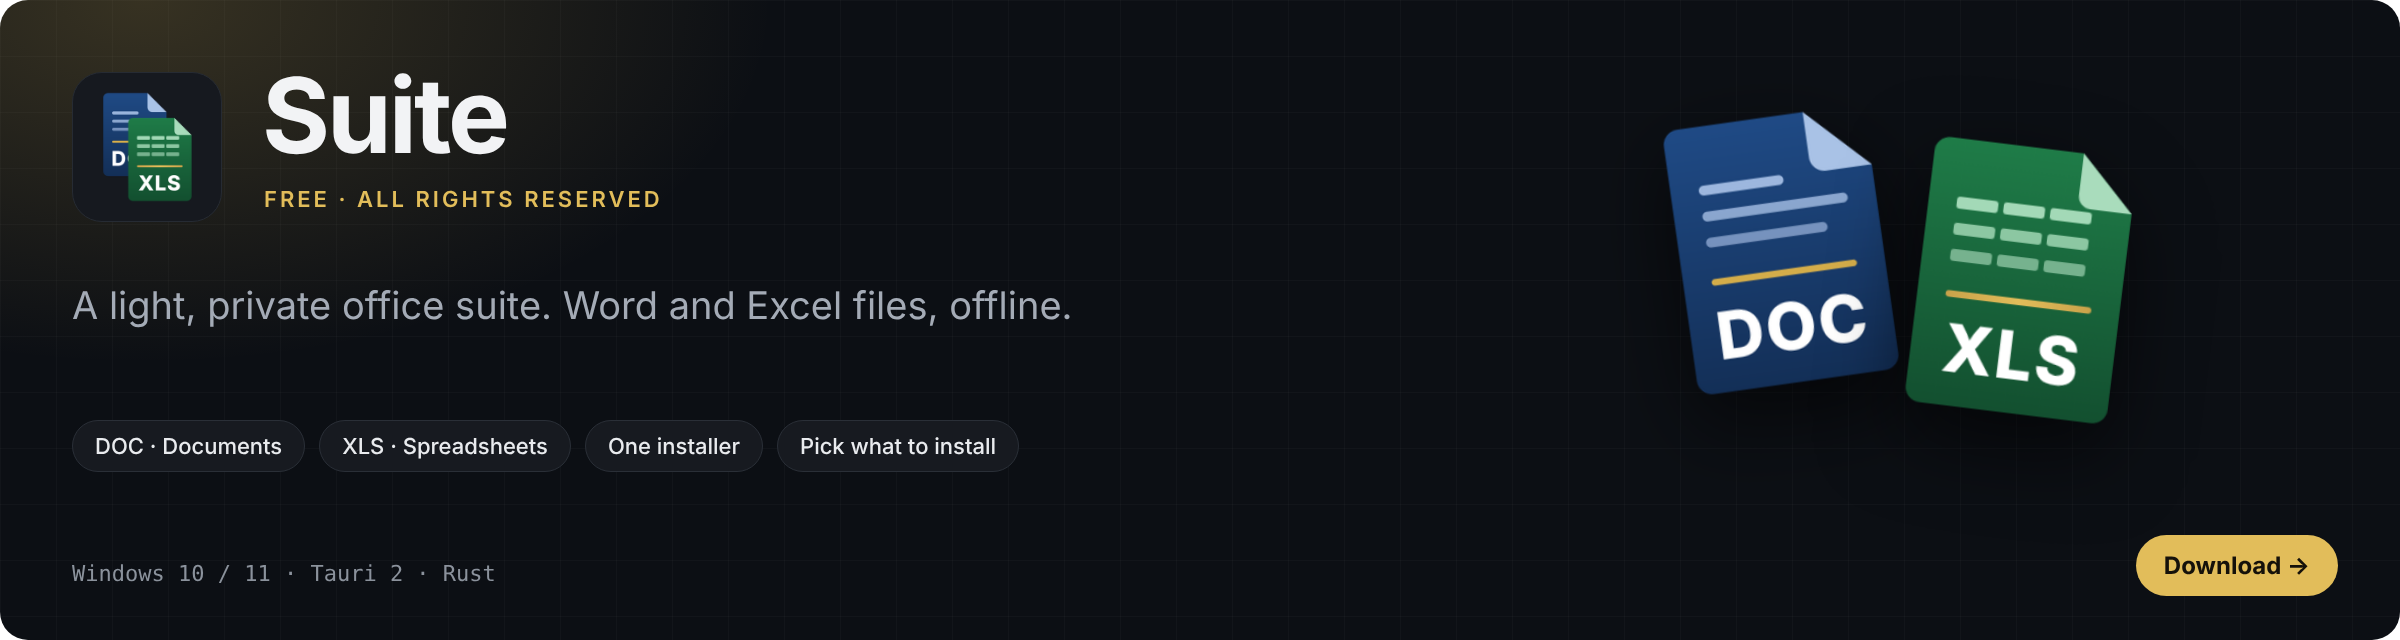
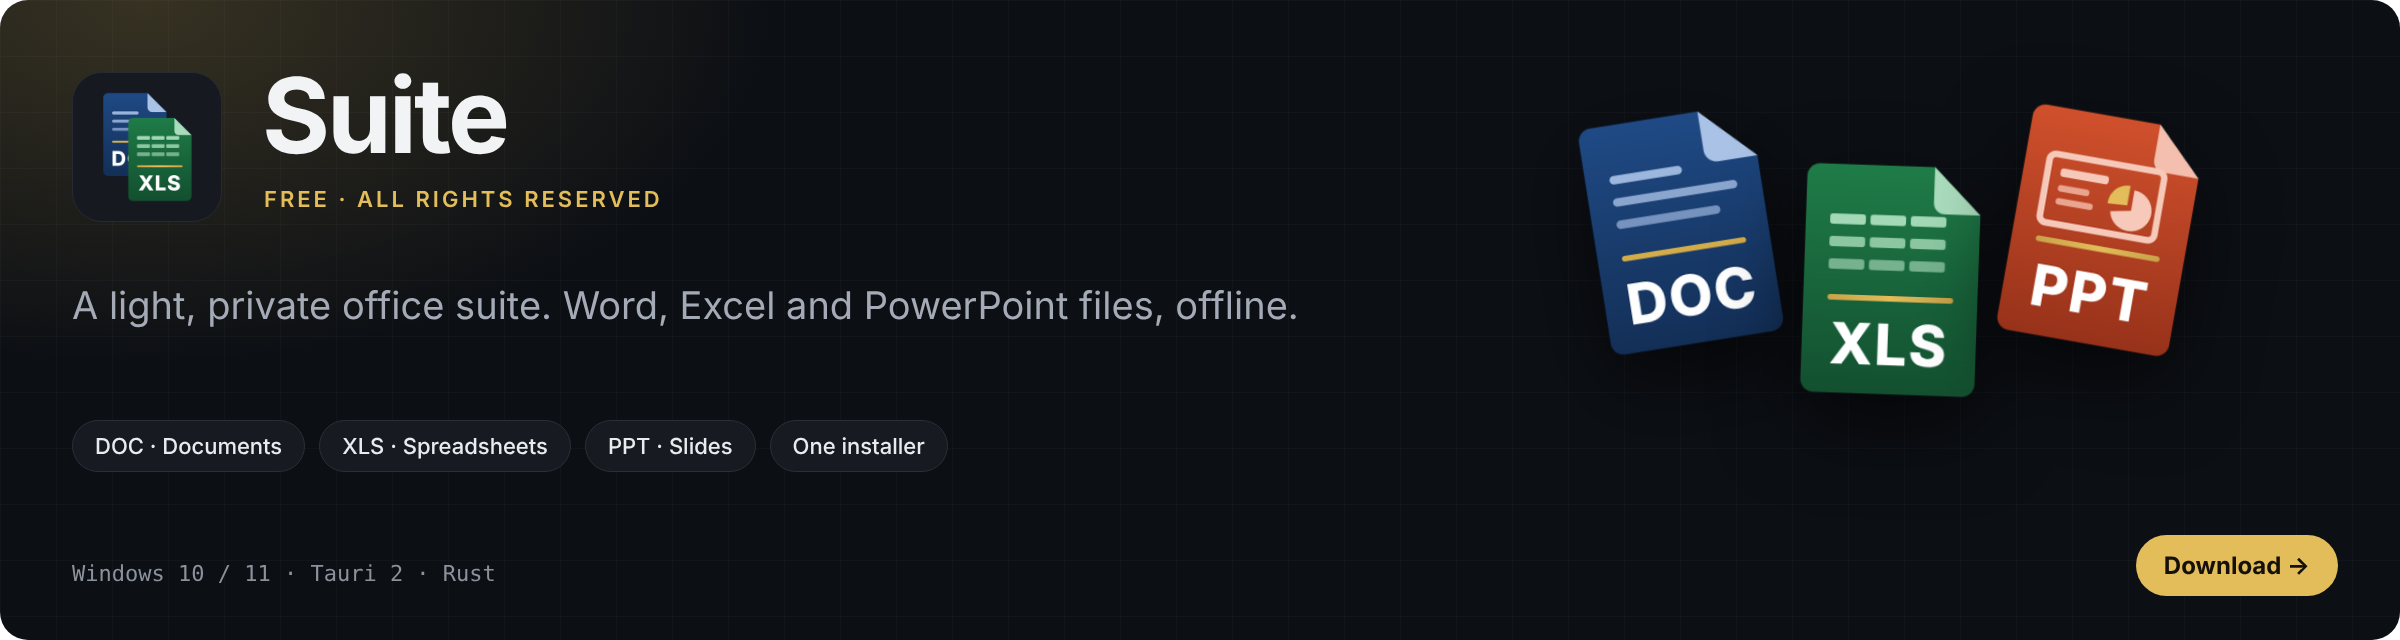
Profile: Suite with PPT

Changed region(s): [[0.6562, 0.1562, 0.9375, 0.6562], [0.2812, 0.4375, 0.5312, 0.5], [0.25, 0.6875, 0.4375, 0.7188]]

diff --git a/README.md b/README.md
@@ -12,9 +12,9 @@
 
 ## Featured
 
-<a href="https://github.com/vasileiostripolidis/suite-releases"><img src="assets/card-suite.png" alt="Suite — a light, private office suite: DOC for documents, XLS for spreadsheets" width="100%"></a>
+<a href="https://github.com/vasileiostripolidis/suite-releases"><img src="assets/card-suite.png" alt="Suite — a light, private office suite: DOC for documents, XLS for spreadsheets, PPT for presentations" width="100%"></a>
 
-**Suite** is a light office suite for Windows: **DOC** opens and saves Word files, **XLS** opens and saves Excel files. One installer, you pick what to install; offline, no telemetry.<br><a href="https://github.com/vasileiostripolidis/suite-releases/releases/latest/download/Suite_Setup.exe"><b>Download for Windows →</b></a> · <a href="https://github.com/vasileiostripolidis/suite-releases">Project page</a> · <a href="https://vasileiostripolidis.github.io/suite-releases/">Website</a>
+**Suite** is a light office suite for Windows: **DOC** for Word files, **XLS** for Excel files and **PPT** for PowerPoint presentations. One installer, you pick what to install; offline, no telemetry.<br><a href="https://github.com/vasileiostripolidis/suite-releases/releases/latest/download/Suite_Setup.exe"><b>Download for Windows →</b></a> · <a href="https://github.com/vasileiostripolidis/suite-releases">Project page</a> · <a href="https://vasileiostripolidis.github.io/suite-releases/">Website</a>
 
 <table>
   <tr>
@@ -45,6 +45,6 @@
 
 ### 🇬🇷 Ελληνικά
 
-Είμαι ο Βασίλειος Τριπολίδης, από την Πάτρα. Στον ελεύθερο χρόνο μου φτιάχνω μικρές, γρήγορες εφαρμογές που σέβονται τα δεδομένα σου: τη σουίτα γραφείου **[Suite](https://github.com/vasileiostripolidis/suite-releases)** με το DOC (κείμενα, συμβατό με Word) και το XLS (υπολογιστικά φύλλα, συμβατό με Excel), το **[Flipleaf](https://github.com/vasileiostripolidis/flipleaf)**, έναν ελαφρύ επεξεργαστή PDF για κάθε υπολογιστή, και τον **[Orbit](https://github.com/vasileiostripolidis/Orbit)**, ένα ρομποτάκι για τη γραμμή εργασιών των Windows. Είναι δωρεάν· ο κώδικας είναι ιδιωτικός.
+Είμαι ο Βασίλειος Τριπολίδης, από την Πάτρα. Στον ελεύθερο χρόνο μου φτιάχνω μικρές, γρήγορες εφαρμογές που σέβονται τα δεδομένα σου: τη σουίτα γραφείου **[Suite](https://github.com/vasileiostripolidis/suite-releases)** με το DOC (κείμενα, συμβατό με Word), το XLS (υπολογιστικά φύλλα, συμβατό με Excel) και το PPT (παρουσιάσεις, συμβατό με PowerPoint), το **[Flipleaf](https://github.com/vasileiostripolidis/flipleaf)**, έναν ελαφρύ επεξεργαστή PDF για κάθε υπολογιστή, και τον **[Orbit](https://github.com/vasileiostripolidis/Orbit)**, ένα ρομποτάκι για τη γραμμή εργασιών των Windows. Είναι δωρεάν· ο κώδικας είναι ιδιωτικός.
 
 Επικοινωνία: [vasileios.tripolidis@gmail.com](mailto:vasileios.tripolidis@gmail.com)
